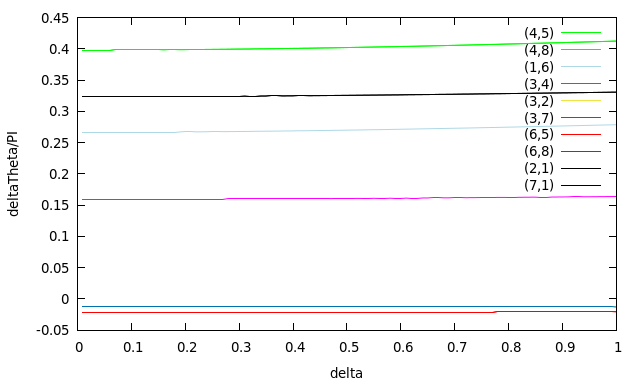
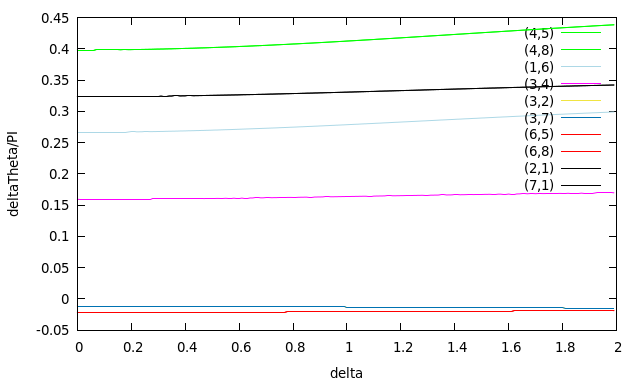
stability variation Pmax and delta

diff --git a/more_nodes/General_case/varying_delta_runge_kutta_general.c b/more_nodes/General_case/varying_delta_runge_kutta_general.c
@@ -11,8 +11,9 @@
 #define internal_steps 10
 #define max_error 10e-10
 
-#define delta_min 0.0
+#define delta_min 0.000001
 #define delta_step 0.01
+#define delta_max 2.0
 
 void print_info(FILE *file){
   fprintf(file, "control form: Pmax*tanh(delta*theta)\n");
@@ -62,6 +63,7 @@ void stability_check(double* y, bool *unstable, FILE* file){
     fprintf(file, "slope (Pmax*delta) =%16.8e\n", Pmax*delta);
     fprintf(file, "error =%16.8e\n", sum);
     fprintf(file, "Stability not reached\n\n");
+    //fprintf(stdout, "Stability NOT reached\n\n");
     *unstable = 1;
   }
   else {
@@ -93,10 +95,10 @@ int main(){
  
   tstart = TCPU_TIME;
 
-  delta = 1.0;
+  delta = delta_min;
   Pmax = 0.1/delta;
 
-  while (delta >= delta_min){
+  while (delta <= delta_max){
     for (int t=1; t<=steps; t+=internal_steps){
       runge_kutta(y, internal_steps);
     }
@@ -105,9 +107,9 @@ int main(){
     
     stability_check(y, &unstable, file);
 
-    //if (unstable == 1)  break;
+    if (unstable == 1)  break;
 
-    delta = delta - delta_step;
+    delta = delta + delta_step;
     Pmax = 0.1/delta;
   }
 
